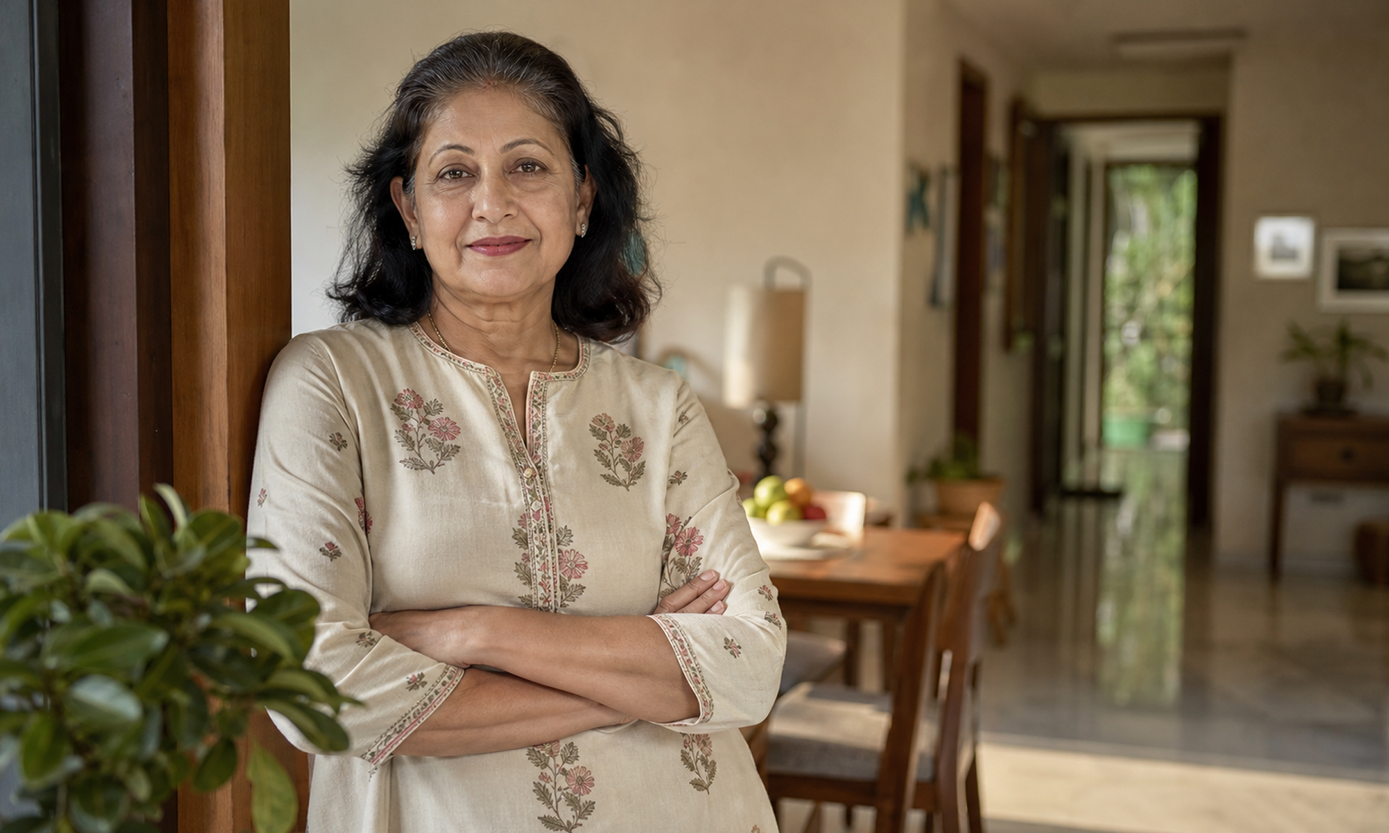
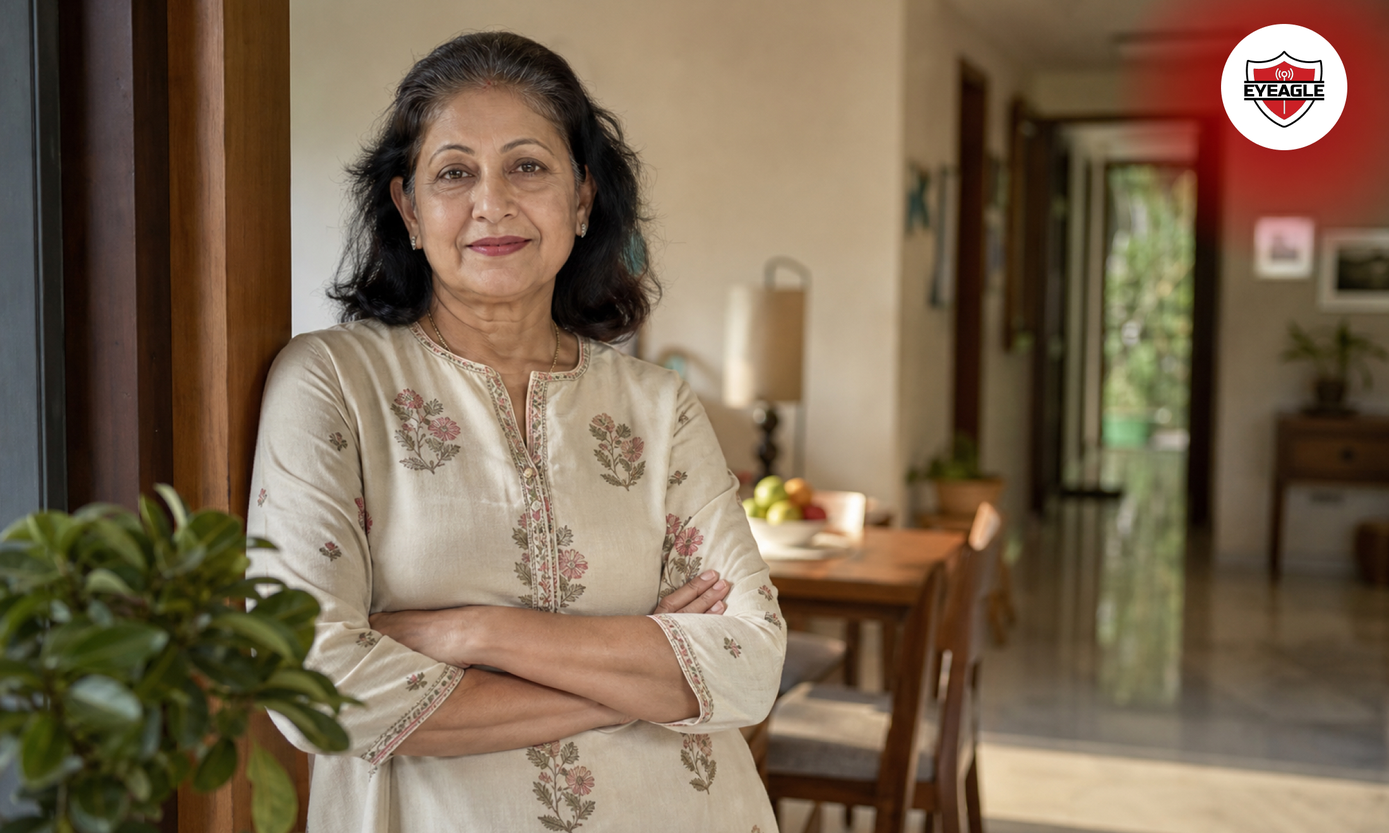
NN | Fix: Added blog 41 on web

Changed region(s): [[0.8036, 0.0, 1.0, 0.3106]]

diff --git a/src/components/constants/home.ts b/src/components/constants/home.ts
@@ -70,6 +70,7 @@ import blogImage34 from "../../assets/Blog/BlogImage34.jpg";
 import blogImage35 from "../../assets/Blog/BlogImage35.jpg";
 import blogImage36 from "../../assets/Blog/BlogImage36.jpg";
 import blogImage37 from "../../assets/Blog/BlogImage37.jpg";
+import blogImage38 from "../../assets/Blog/BlogImage38.png";
 
 export const bathroomData = [
   {
@@ -388,6 +389,18 @@ export const blogsData = [
     title: "Osteoporosis in Indian Women: Fall Risks After 50",
     desc: "Discover why osteoporosis is common in Indian women after 50. Learn the signs, risk factors, DEXA scan cost, and ways to protect bone health.",
     img: blogImage37,
+  },
+     {
+    slug: "apartment-safety-for-elderly-india",
+    title: "Apartment Safety for Elderly India: A Room-by-Room Guide",
+    desc: "A guide to apartment safety for elderly India, covering flat modifications, high-rise safety for elderly, and a home safety checklist.",
+    img: blogImage38,
+  },
+     {
+    slug: "caring-for-elderly-parents-while-working-abroad",
+    title: "Caring for Elderly Parents While Working Abroad | EyEagle",
+    desc: "Read on to know about caring for elderly parents while living abroad and reliable elderly care solutions in India like EyEagle.",
+    img: blogImage38,
   },
 ];
 

diff --git a/src/content/blogs/working-abroad.md b/src/content/blogs/working-abroad.md
@@ -1,0 +1,163 @@
+---
+id: "41"
+title: "Caring for Elderly Parents While Working Abroad | EyEagle"
+desc: "Read on to know about caring for elderly parents while living abroad and reliable elderly care solutions in India like EyEagle."
+category: "Blog"
+img: ../../assets/Blog/BlogImage39.png
+slug: "caring-for-elderly-parents-while-working-abroad"
+author: "Dr. Ambika Chaurasia"
+authorRole: "Consultant"
+date: 2026-08-27
+---
+
+# When Distance Isn’t Distance: Caring for Elderly Parents While Working Abroad
+
+There’s a unique kind of silence that hits when you end a video call with your parents and realize you’re thousands of miles away. For many living overseas, caring for elderly parents back home isn’t just a responsibility; it’s an emotional tug that never really goes away. You build your career, chase global opportunities, and create a life abroad…but your heart often stays rooted where your parents are.
+
+If you’re managing elderly parents from abroad, you’re not alone. And more importantly, you’re not helpless. Distance doesn’t have to mean disconnection.
+
+## The Emotional Reality of Long-Distance Caregiving
+
+Long-distance caregiving for parents brings a mix of guilt, worry, and helplessness.
+
+- “What if something happens and I’m not there?”
+- “Are they really okay, or just saying they are?”
+- “Am I doing enough?”
+
+These thoughts are common, especially for NRIs caring for parents in India. Cultural expectations add another layer; we grow up believing children should physically be present for their aging parents. When life takes us elsewhere, that expectation can weigh heavily.
+
+But here’s the truth: Care isn’t measured by geography. It’s measured by consistency, involvement, and thoughtful action.
+
+<a href="https://eyeagle.ai/blogs/caring-from-distance" style="color:#CC0000; text-decoration:none;">Click here to see how an NRI managed his mother’s care while working in Singapore</a>
+
+## The Practical Challenges of Managing Elderly Parents from Abroad
+
+Supporting aging parents remotely involves more than an emotional connection. It includes:
+
+- Monitoring their health
+- Ensuring home safety
+- Managing finances and paperwork
+- Coordinating doctor visits
+- Handling emergencies
+- Preventing loneliness and isolation
+
+When you’re in a different time zone, even small tasks can feel complicated. So how do you turn concern into structured support?
+
+## Step 1: Build a Reliable Support Network on the Ground
+
+No long-distance caregiving plan works without local support. This may include:
+
+- Close relatives
+- Trusted neighbors
+- Family friends
+- Professional caregivers
+- Local medical contacts
+
+![Infographic](../../assets/Blog/BlogImage39Info-1.png)
+
+Have clear communication with at least one dependable person nearby who can check in physically when needed. Share medical details, emergency contacts, and basic health history with them.
+
+If family support isn’t available, consider elderly care solutions for working professionals abroad, including verified caregiving services and emergency response providers in India.
+
+## Step 2: Use Technology as Your Care Partner
+
+Technology has transformed how NRIs care for their parents in India.
+
+Here’s how you can stay actively involved:
+
+### 1. Regular Video Check-ins
+
+Schedule fixed video calls, not random ones. Routine creates reassurance for both you and them.
+
+### 2. Health Monitoring Devices
+
+Smartwatches, blood pressure monitors, glucose monitors, and medication reminder apps help track health metrics in real time.
+
+![Infographic](../../assets/Blog/BlogImage39Info-2.png)
+
+### 3. Emergency Alert Systems
+
+<a href="https://eyeagle.ai/" style="color:#CC0000; text-decoration:none;">Modern elderly care systems include fall detection</a>, SOS buttons, and emergency dispatch services. If a parent falls or presses an alert button, help can be sent immediately, even if you’re abroad.
+
+<a href="https://eyeagle.ai/device" style="color:#CC0000; text-decoration:none;">EyEagle’s SOS button</a> ensures instant emergency alerts, while the <a href="https://eyeagle.ai/app" style="color:#CC0000; text-decoration:none;">EyEagle App</a> notifies family members abroad in real time, so even from miles away, you stay informed, and your parents get immediate help from your circle.
+
+## Step 3: Plan Financial and Medical Systems in Advance
+
+Caring for elderly parents responsibly means planning before a crisis happens. Make sure you:
+
+- Have digital access to their bank accounts (with consent)
+- Set up automatic bill payments
+- Maintain scanned copies of medical records
+- Understand their insurance coverage
+- Identify nearby hospitals and specialists
+
+![Infographic](../../assets/Blog/BlogImage39Info-3.png)
+
+If you’re managing elderly parents from abroad, documentation and clarity are your biggest strengths. The goal is simple: no panic decisions during emergencies.
+
+## Step 4: Prioritize Emotional Well-Being- Not Just Physical Health
+
+Often, long-distance caregiving focuses only on medical needs.
+
+But loneliness can affect seniors just as deeply as illness.
+
+**Encourage:**
+
+- Participation in local community groups
+- Spiritual gatherings or temple visits
+- Hobby classes
+- Daily walks with neighbors
+- Video calls with grandchildren
+
+Supporting aging parents remotely means supporting their emotional world, too.
+
+Sometimes, a consistent 15-minute daily call matters more than an expensive medical device.
+
+## Step 5: Have the Difficult Conversations Early
+
+It’s uncomfortable, but necessary.
+
+Discuss:
+- Emergency preferences
+- Medical decisions
+- Living arrangements
+- Assisted care options if needed
+- End-of-life wishes (handled sensitively)
+
+Many NRIs delay these conversations because they feel heavy. But clarity reduces future stress for everyone.
+
+It also empowers your parents; they remain decision-makers in their own lives.
+
+## The Silent Weight of Guilt- And How to Handle It
+
+If you’re caring for elderly parents while working abroad, guilt is almost inevitable. You may feel:
+
+- You chose career over family
+- You’re not physically present during health scares
+- You’re missing everyday moments
+
+Pause for a moment. Being abroad doesn’t mean abandonment. In many cases, your global career strengthens your ability to support them financially and medically. Instead of focusing on what you can’t control, focus on what you can:
+
+- Structured systems
+- Reliable monitoring
+- Consistent communication
+- Financial security
+- Emergency preparedness
+
+## When Professional Support Becomes Essential
+
+There may come a time when independent living becomes difficult. This doesn’t mean failure. It means adapting. Options include:
+
+- In-home nursing care
+- Part-time attendants
+- Full-time caregivers
+- Assisted living facilities
+- Remote monitoring with emergency response teams
+
+Elderly care solutions for working professionals abroad are growing in India precisely because so many families face this reality. Seeking help does not replace your role. It’s strengthening it.
+
+## Distance Isn’t the Opposite of Love
+
+If you’re an NRI caring for parents in India, remember this: Your love isn’t measured in kilometers. It’s measured in effort, planning, consistency and in staying mentally present even when physically absent. Caring for elderly parents while living abroad requires emotional maturity and practical organization. It’s not easy, but it is possible. And sometimes, what aging parents need most is reassurance:
+
+**That you are there. They matter. And they are not alone.**
